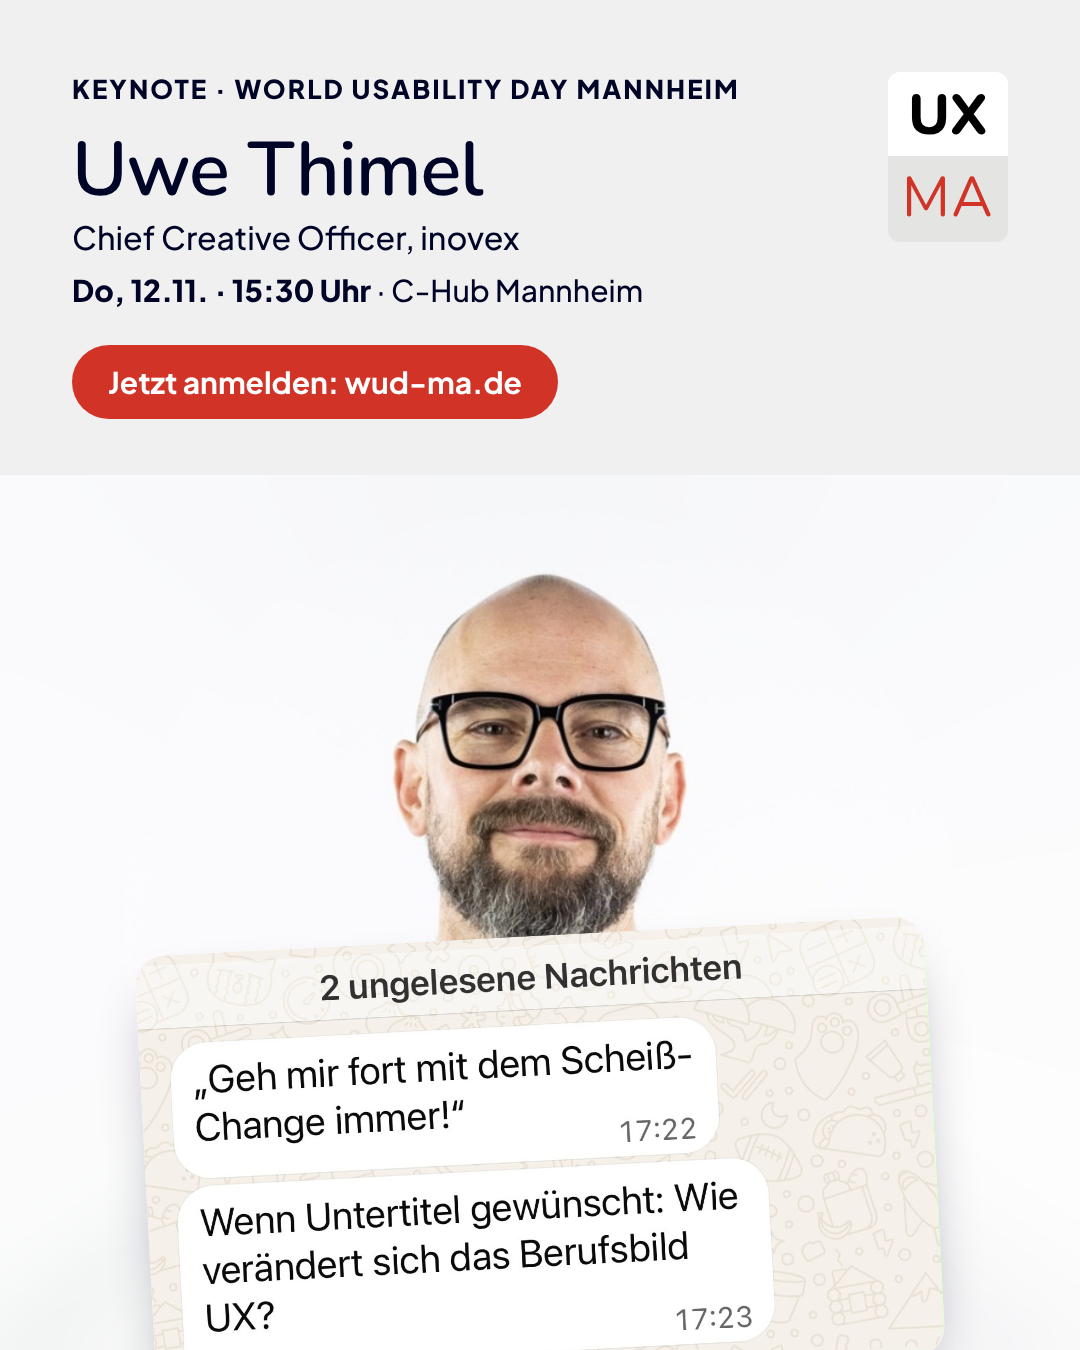
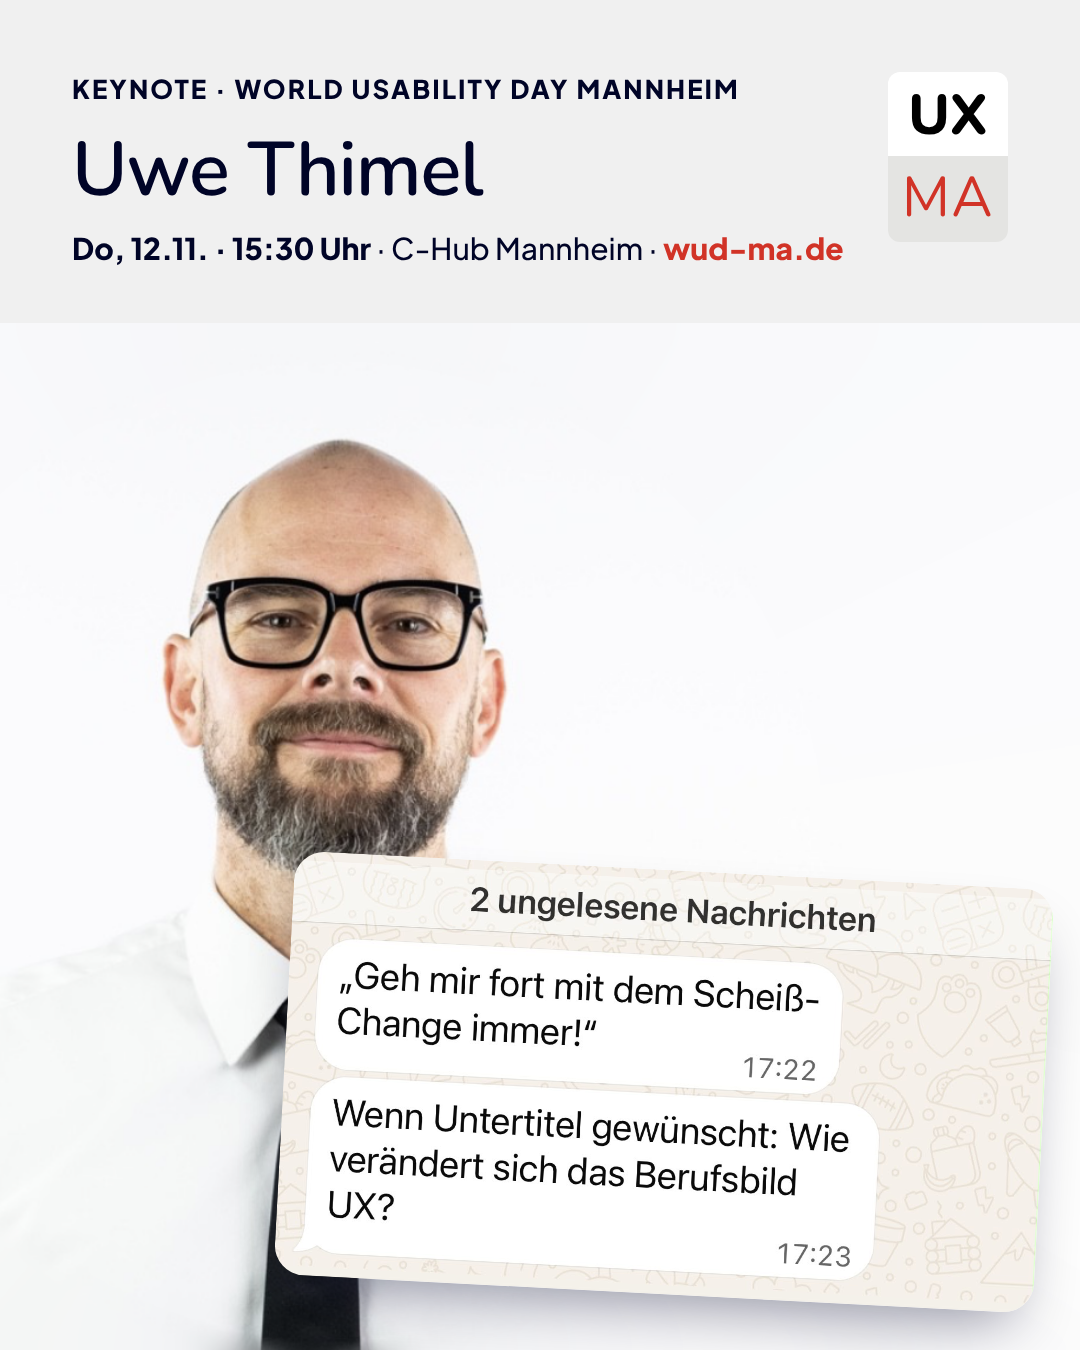
Chat-Version: Uwe nach links, Screenshot rechts, oben weniger Content
Claude-Session: https://claude.ai/code/session_01FdBpF3p1XTs9Kowkd1XXbf

diff --git a/assets/src/keynote-speaker.html b/assets/src/keynote-speaker.html
@@ -51,10 +51,11 @@
   /* ---------- Chat: echter Screenshot ---------- */
   .name { margin-top: 26px; font-size: 76px; color: var(--navy); }
   .role { margin-top: 6px; font-size: 32px; font-weight: 500; }
-  .chat-meta { margin-top: 14px; }
+  .chat-meta { margin-top: 18px; }
+  .url { color: var(--red); font-weight: 800; }
   .share-head { font-size: 68px; color: var(--red); line-height: 1.04; max-width: 800px; }
   .share-meta { margin-top: 26px; }
-  .shot { position: absolute; left: 50%; bottom: -26px; width: 790px; margin-left: -395px; transform: rotate(-3deg);
+  .shot { position: absolute; right: 36px; bottom: 56px; width: 760px; transform: rotate(3deg);
           border-radius: 30px; overflow: hidden; box-shadow: 0 30px 60px -24px rgba(0,4,39,.45); }
   .shot img { width: 100%; display: block; }
 </style>
@@ -85,17 +86,14 @@
     <div class="v v-chat-orga">
       <div class="kicker">Keynote · World Usability Day Mannheim</div>
       <div class="head name">Uwe Thimel</div>
-      <div class="role">Chief Creative Officer, inovex</div>
-      <div class="meta chat-meta"><b>Do, 12.11. · 15:30 Uhr</b> · C-Hub Mannheim</div>
+      <div class="meta chat-meta"><b>Do, 12.11. · 15:30 Uhr</b> · C-Hub Mannheim · <span class="url">wud-ma.de</span></div>
     </div>
-    <div class="pill cta v v-chat-orga">Jetzt anmelden: wud-ma.de</div>
 
     <!-- Chat – zum Teilen -->
     <div class="v v-chat-share">
       <div class="head share-head">Speaker at<br>World Usability Day</div>
-      <div class="meta share-meta"><b>Do, 12.11.2026 · 15:30 Uhr</b> · C-Hub Mannheim</div>
+      <div class="meta share-meta"><b>Do, 12.11. · 15:30 Uhr</b> · C-Hub Mannheim · <span class="url">wud-ma.de</span></div>
     </div>
-    <div class="pill cta v v-chat-share">Kostenlos anmelden: wud-ma.de</div>
   </div>
 
   <div class="photo">
@@ -107,6 +105,11 @@
   <script>
     const h = location.hash;
     ['chat','teilen','sw'].forEach(k => { if (h.includes(k)) document.body.classList.add(k); });
+    // Chat-Version: Uwe nach links rücken, damit die Nachricht rechts Platz hat
+    if (document.body.classList.contains('chat')) {
+      const ph = document.querySelector('.photo'), H = ph.clientHeight, s = H / 935;   // Bild: 1700×935, Person mittig (x=850)
+      ph.style.backgroundPosition = Math.round(340 - 850 * s) + 'px bottom';
+    }
   </script>
 </body>
 </html>
